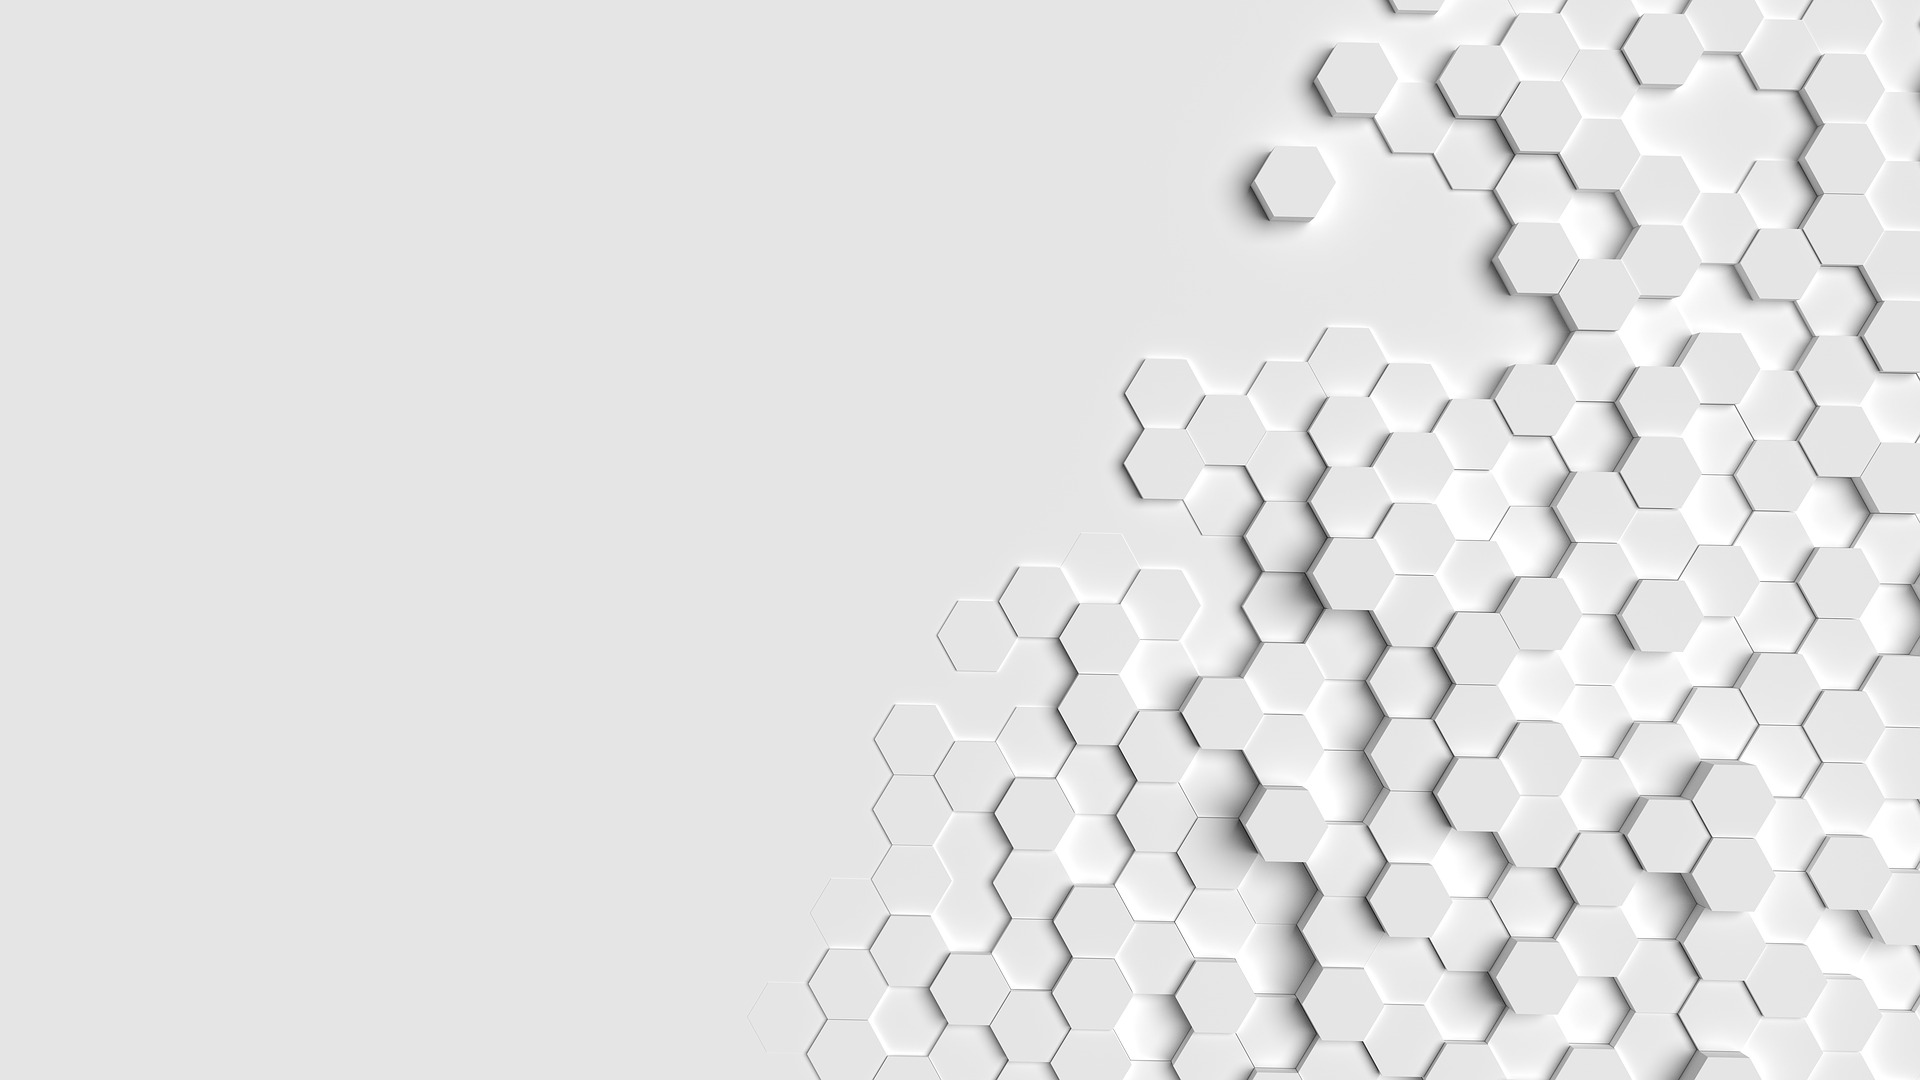
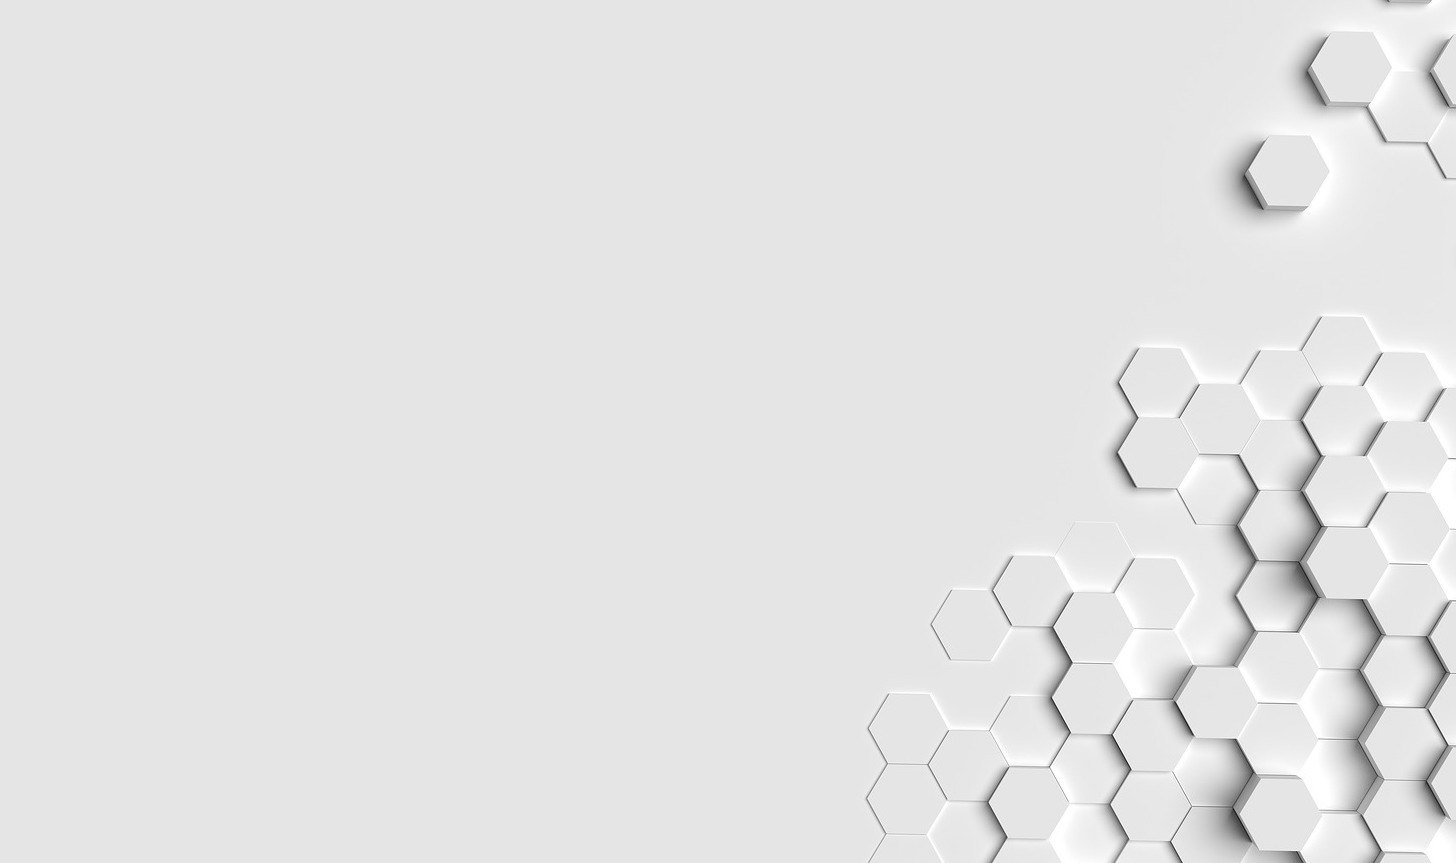
added background-size: cover & adjusted margins

diff --git a/style.css b/style.css
@@ -6,6 +6,7 @@ body {
 
 body {
   background-image: url('grid-3227459_1920.jpg');
+  background-size: cover;
   font-family: 'Open Sans', sans-serif;
   color: #494646;
   display: flex;
@@ -49,7 +50,7 @@ footer {
 }
 /* hinted from freecodecamp */
 .footer {
-  margin-bottom: 5px;
+  /* margin-bottom: 5px; */
   position: absolute;
   bottom: 0;
   width: 100%;
